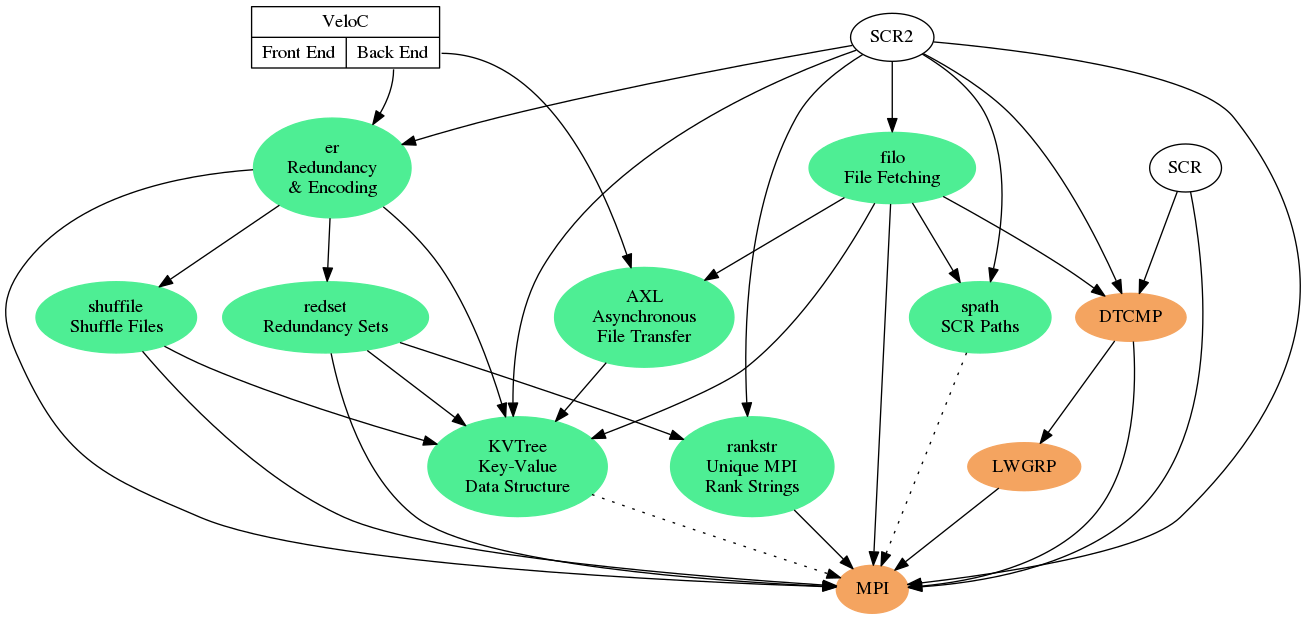
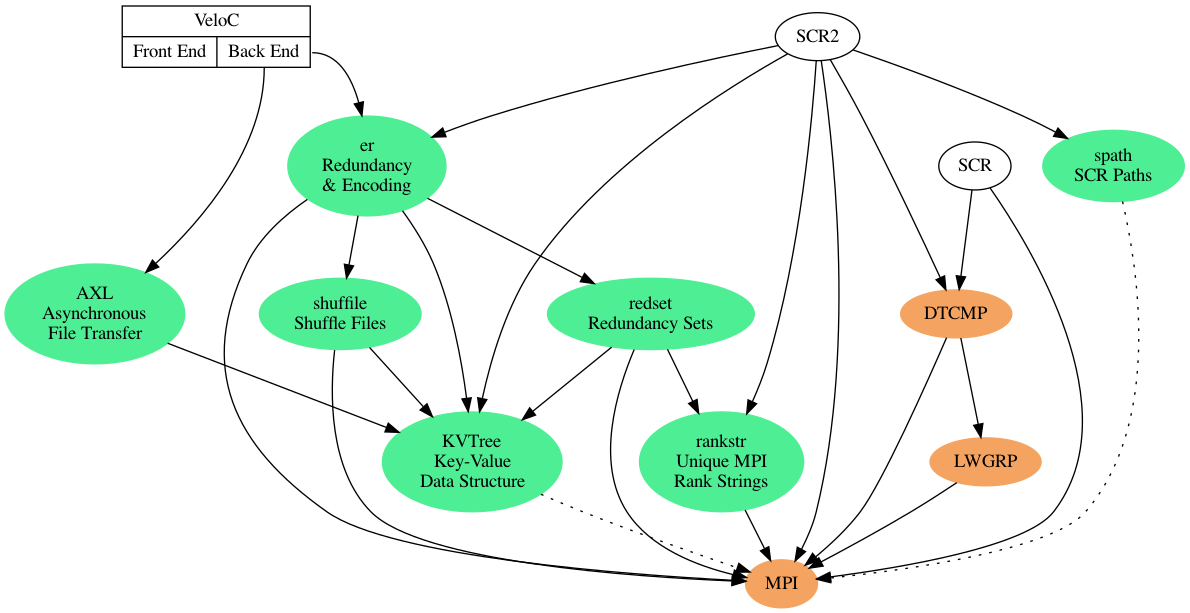
removed filo

diff --git a/README.md b/README.md
@@ -17,7 +17,6 @@ Component | Version | GitHub | Travis CI
 [KVTree](./group__kvtree.html) | ? | [GH](https://github.com/ecp-veloc/kvtree) | [![Build Status](https://api.travis-ci.org/ECP-VeloC/KVTree.png?branch=master)](https://travis-ci.org/ECP-VeloC/KVTree)
 [AXL](./group__axl.html) | ? | [GH](https://github.com/ecp-veloc/axl) | [![Build Status](https://api.travis-ci.org/ECP-VeloC/AXL.png?branch=master)](https://travis-ci.org/ECP-VeloC/AXL)
 [SPath](./group__spath.html) | ? | [GH](https://github.com/ecp-veloc/spath) | [![Build Status](https://api.travis-ci.org/ECP-VeloC/spath.png?branch=master)](https://travis-ci.org/ECP-VeloC/spath)
-[FILO](./group__filo.html) | ? | [GH](https://github.com/ecp-veloc/filo) | [![Build Status](https://api.travis-ci.org/ECP-VeloC/filo.png?branch=master)](https://travis-ci.org/ECP-VeloC/filo)
 [Shuffile](./group__shuffile.html) | ? | [GH](https://github.com/ecp-veloc/shuffile) | [![Build Status](https://api.travis-ci.org/ECP-VeloC/shuffile.png?branch=master)](https://travis-ci.org/ECP-VeloC/shuffile)
 [Redset](./group__redset.html) | ? | [GH](https://github.com/ecp-veloc/redset) | [![Build Status](https://api.travis-ci.org/ECP-VeloC/redset.png?branch=master)](https://travis-ci.org/ECP-VeloC/redset)
 [Rankstr](./group__rankstr.html) | ? | [GH](https://github.com/ecp-veloc/rankstr) | [![Build Status](https://api.travis-ci.org/ECP-VeloC/rankstr.png?branch=master)](https://travis-ci.org/ECP-VeloC/rankstr)
